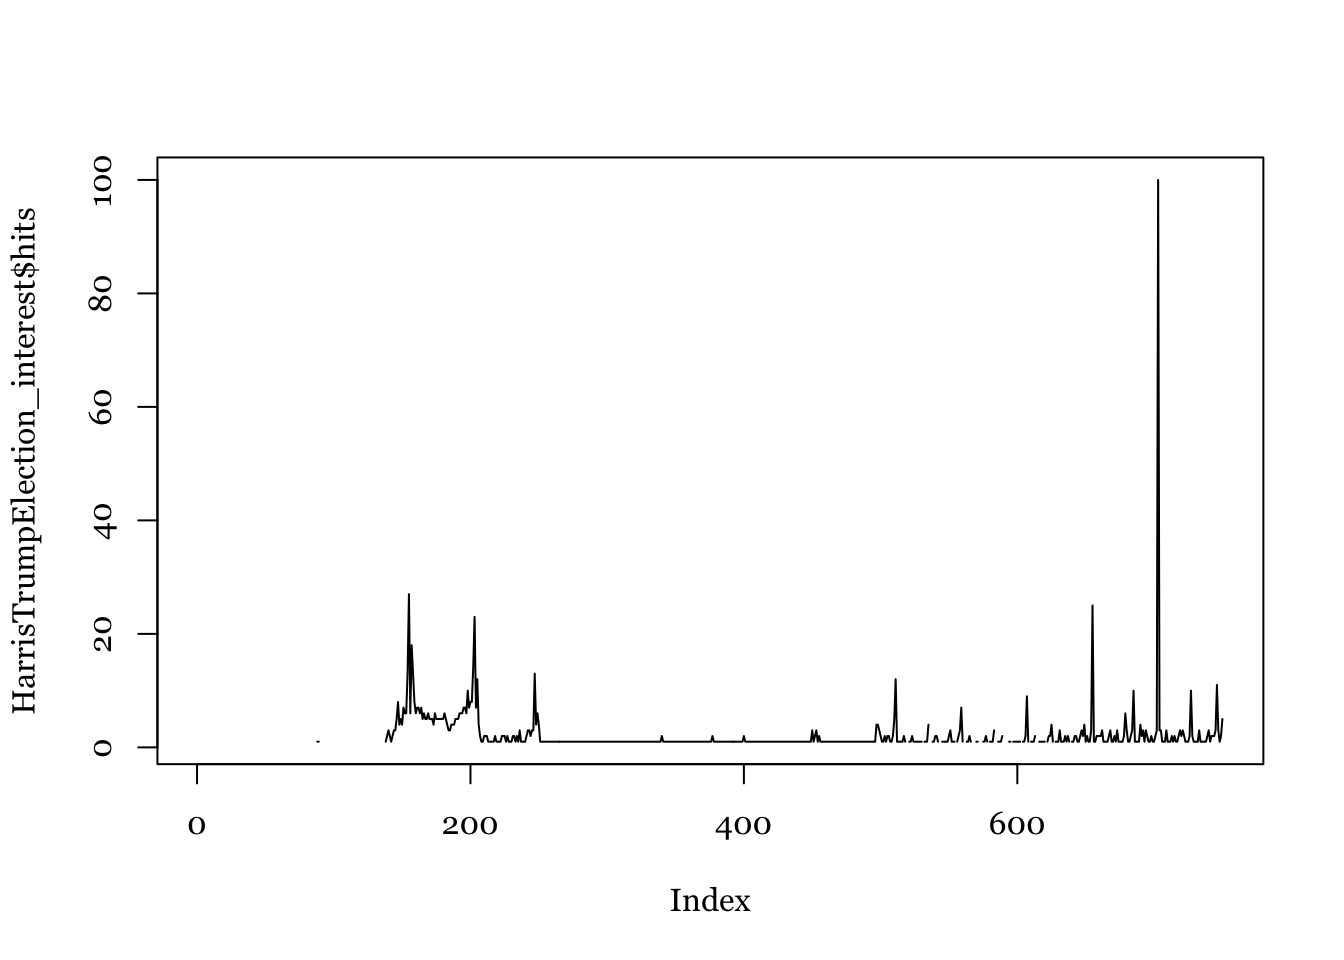
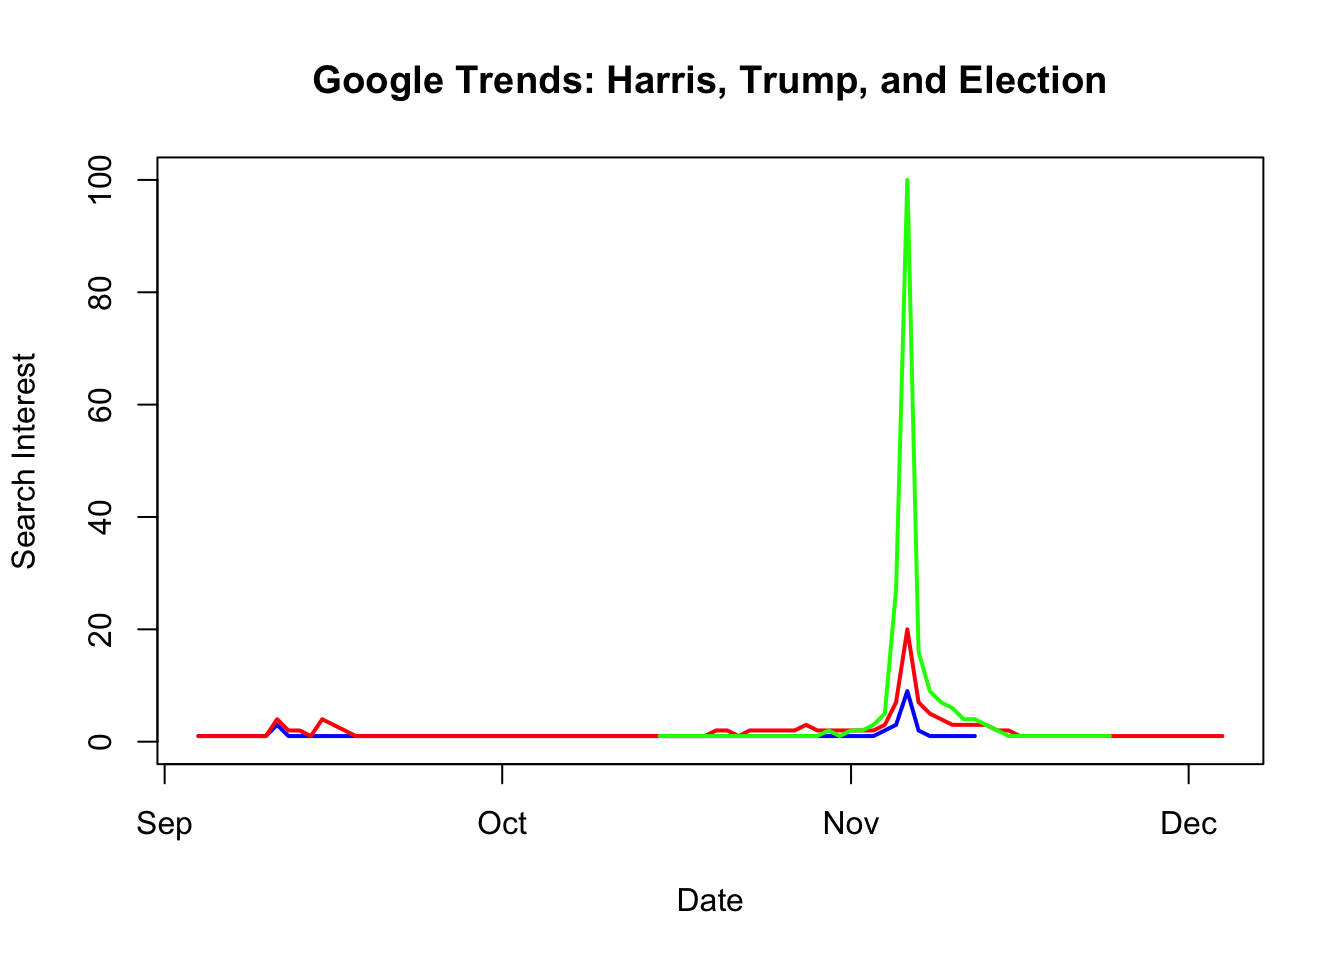
Add files via upload

diff --git a/studies.html b/studies.html
@@ -170,22 +170,23 @@ pre > code.sourceCode > span > a:first-child::before { text-decoration: underlin
 </header>
 
 
+<p>I downloaded data for the terms “Trump”, “Harris” and ” Election”on the Google Trends Website as a csv.file for the last 90 days - September 4th to December 3rd 2024 - and converted it to an Excel file. I loaded the Excel file into R and started analyzing the data.</p>
 <div class="cell">
-<div class="sourceCode cell-code" id="cb1"><pre class="sourceCode r code-with-copy"><code class="sourceCode r"><span id="cb1-1"><a href="#cb1-1" aria-hidden="true" tabindex="-1"></a><span class="do">## Install package</span></span>
-<span id="cb1-2"><a href="#cb1-2" aria-hidden="true" tabindex="-1"></a><span class="do">##install.packages("gtrendsR")</span></span>
-<span id="cb1-3"><a href="#cb1-3" aria-hidden="true" tabindex="-1"></a></span>
-<span id="cb1-4"><a href="#cb1-4" aria-hidden="true" tabindex="-1"></a><span class="do">## Load library and run gtrends</span></span>
-<span id="cb1-5"><a href="#cb1-5" aria-hidden="true" tabindex="-1"></a><span class="fu">library</span>(gtrendsR)</span>
-<span id="cb1-6"><a href="#cb1-6" aria-hidden="true" tabindex="-1"></a>HarrisTrumpElection <span class="ot">=</span> <span class="fu">gtrends</span>(<span class="fu">c</span>(<span class="st">"Trump"</span>,<span class="st">"Harris"</span>,<span class="st">"election"</span>), <span class="at">time =</span> <span class="st">"all"</span>)</span>
-<span id="cb1-7"><a href="#cb1-7" aria-hidden="true" tabindex="-1"></a></span>
-<span id="cb1-8"><a href="#cb1-8" aria-hidden="true" tabindex="-1"></a><span class="do">## Select data for plotting</span></span>
-<span id="cb1-9"><a href="#cb1-9" aria-hidden="true" tabindex="-1"></a>HarrisTrumpElection_interest <span class="ot">&lt;-</span> HarrisTrumpElection<span class="sc">$</span>interest_over_time</span>
-<span id="cb1-10"><a href="#cb1-10" aria-hidden="true" tabindex="-1"></a></span>
-<span id="cb1-11"><a href="#cb1-11" aria-hidden="true" tabindex="-1"></a><span class="do">## Plot data</span></span>
-<span id="cb1-12"><a href="#cb1-12" aria-hidden="true" tabindex="-1"></a><span class="fu">par</span>(<span class="at">family=</span><span class="st">"Georgia"</span>)</span>
-<span id="cb1-13"><a href="#cb1-13" aria-hidden="true" tabindex="-1"></a><span class="fu">plot</span>(HarrisTrumpElection_interest<span class="sc">$</span>hits, <span class="at">type=</span><span class="st">"l"</span>)</span></code><button title="Copy to Clipboard" class="code-copy-button"><i class="bi"></i></button></pre></div>
+<div class="sourceCode cell-code" id="cb1"><pre class="sourceCode r code-with-copy"><code class="sourceCode r"><span id="cb1-1"><a href="#cb1-1" aria-hidden="true" tabindex="-1"></a><span class="fu">library</span>(readxl)</span>
+<span id="cb1-2"><a href="#cb1-2" aria-hidden="true" tabindex="-1"></a>GTrends <span class="ot">&lt;-</span> <span class="fu">read_excel</span>(<span class="st">"~/Downloads/GTrends.xlsx"</span>)</span>
+<span id="cb1-3"><a href="#cb1-3" aria-hidden="true" tabindex="-1"></a><span class="fu">colnames</span>(GTrends) <span class="ot">&lt;-</span> <span class="fu">c</span>(<span class="st">"Day"</span>, <span class="st">"Trump"</span>, <span class="st">"Harris"</span>, <span class="st">"Election"</span>)</span>
+<span id="cb1-4"><a href="#cb1-4" aria-hidden="true" tabindex="-1"></a>GTrends<span class="sc">$</span>Day <span class="ot">&lt;-</span> <span class="fu">as.Date</span>(GTrends<span class="sc">$</span>Day)</span>
+<span id="cb1-5"><a href="#cb1-5" aria-hidden="true" tabindex="-1"></a></span>
+<span id="cb1-6"><a href="#cb1-6" aria-hidden="true" tabindex="-1"></a><span class="fu">plot</span>(GTrends<span class="sc">$</span>Day, GTrends<span class="sc">$</span>Harris, <span class="at">type =</span> <span class="st">"l"</span>, <span class="at">col =</span> <span class="st">"blue"</span>, <span class="at">lwd =</span> <span class="dv">2</span>,</span>
+<span id="cb1-7"><a href="#cb1-7" aria-hidden="true" tabindex="-1"></a>     <span class="at">xlab =</span> <span class="st">"Date"</span>, <span class="at">ylab =</span> <span class="st">"Search Interest"</span>, <span class="at">main =</span> <span class="st">"Google Trends: Harris, Trump, and Election"</span>,</span>
+<span id="cb1-8"><a href="#cb1-8" aria-hidden="true" tabindex="-1"></a>     <span class="at">ylim =</span> <span class="fu">c</span>(<span class="dv">0</span>, <span class="dv">100</span>))</span></code><button title="Copy to Clipboard" class="code-copy-button"><i class="bi"></i></button></pre></div>
 <div class="cell-output cell-output-stderr">
 <pre><code>Warning in xy.coords(x, y, xlabel, ylabel, log): NAs introduced by coercion</code></pre>
+</div>
+<div class="sourceCode cell-code" id="cb3"><pre class="sourceCode r code-with-copy"><code class="sourceCode r"><span id="cb3-1"><a href="#cb3-1" aria-hidden="true" tabindex="-1"></a><span class="fu">lines</span>(GTrends<span class="sc">$</span>Day, GTrends<span class="sc">$</span>Trump, <span class="at">col =</span> <span class="st">"red"</span>, <span class="at">lwd =</span> <span class="dv">2</span>)</span>
+<span id="cb3-2"><a href="#cb3-2" aria-hidden="true" tabindex="-1"></a><span class="fu">lines</span>(GTrends<span class="sc">$</span>Day, GTrends<span class="sc">$</span>Election, <span class="at">col =</span> <span class="st">"green"</span>, <span class="at">lwd =</span> <span class="dv">2</span>)</span></code><button title="Copy to Clipboard" class="code-copy-button"><i class="bi"></i></button></pre></div>
+<div class="cell-output cell-output-stderr">
+<pre><code>Warning in xy.coords(x, y): NAs introduced by coercion</code></pre>
 </div>
 <div class="cell-output-display">
 <div>
@@ -195,6 +196,39 @@ pre > code.sourceCode > span > a:first-child::before { text-decoration: underlin
 </div>
 </div>
 </div>
+<div class="quarto-figure quarto-figure-center">
+<figure class="figure">
+<p><img src="images/Harris, Trump, Election.png" class="img-fluid figure-img"></p>
+<figcaption>Plot for the GoogleTrends Data</figcaption>
+</figure>
+</div>
+<p>When looking at the data, one can see how at the day of the Election the term election was way more searched for than the candidates names Trump or Harris. Due to this peak of the term Election being searched much more on November 6th compared to any other term at any other date, it is very hard to analyze the data based on this graph and this chosen time frame any further. This shows a big disadvantages of Google Trends, as it is only a relative measure.</p>
+<div class="cell">
+<div class="sourceCode cell-code" id="cb5"><pre class="sourceCode r code-with-copy"><code class="sourceCode r"><span id="cb5-1"><a href="#cb5-1" aria-hidden="true" tabindex="-1"></a><span class="do">## Install package</span></span>
+<span id="cb5-2"><a href="#cb5-2" aria-hidden="true" tabindex="-1"></a><span class="do">##install.packages("gtrendsR")</span></span>
+<span id="cb5-3"><a href="#cb5-3" aria-hidden="true" tabindex="-1"></a></span>
+<span id="cb5-4"><a href="#cb5-4" aria-hidden="true" tabindex="-1"></a><span class="do">## Load library and run gtrends</span></span>
+<span id="cb5-5"><a href="#cb5-5" aria-hidden="true" tabindex="-1"></a><span class="fu">library</span>(gtrendsR)</span>
+<span id="cb5-6"><a href="#cb5-6" aria-hidden="true" tabindex="-1"></a>HarrisTrumpElection <span class="ot">=</span> <span class="fu">gtrends</span>(<span class="fu">c</span>(<span class="st">"Trump"</span>,<span class="st">"Harris"</span>,<span class="st">"election"</span>), <span class="at">time =</span> <span class="st">"all"</span>)</span>
+<span id="cb5-7"><a href="#cb5-7" aria-hidden="true" tabindex="-1"></a></span>
+<span id="cb5-8"><a href="#cb5-8" aria-hidden="true" tabindex="-1"></a><span class="do">## Select data for plotting</span></span>
+<span id="cb5-9"><a href="#cb5-9" aria-hidden="true" tabindex="-1"></a>HarrisTrumpElection_interest <span class="ot">&lt;-</span> HarrisTrumpElection<span class="sc">$</span>interest_over_time</span>
+<span id="cb5-10"><a href="#cb5-10" aria-hidden="true" tabindex="-1"></a></span>
+<span id="cb5-11"><a href="#cb5-11" aria-hidden="true" tabindex="-1"></a><span class="do">## Plot data</span></span>
+<span id="cb5-12"><a href="#cb5-12" aria-hidden="true" tabindex="-1"></a><span class="fu">plot</span>(HarrisTrumpElection_interest<span class="sc">$</span>hits, <span class="at">type=</span><span class="st">"l"</span>)</span></code><button title="Copy to Clipboard" class="code-copy-button"><i class="bi"></i></button></pre></div>
+<div class="cell-output cell-output-stderr">
+<pre><code>Warning in xy.coords(x, y, xlabel, ylabel, log): NAs introduced by coercion</code></pre>
+</div>
+<div class="cell-output-display">
+<div>
+<figure class="figure">
+<p><img src="studies_files/figure-html/unnamed-chunk-2-1.png" class="img-fluid figure-img" width="672"></p>
+</figure>
+</div>
+</div>
+</div>
+<p><img src="images/gTrendsRPlot.png" class="img-fluid"></p>
+<p>Instead of first downloading the data on the website as a csv file, convert it to an Excel and then import it to R and plot and analyze the data, with the help of the gtrendsR package this can be done more easily. The package simplifies it and makes it easier to download more data faster.</p>
 
 
 
